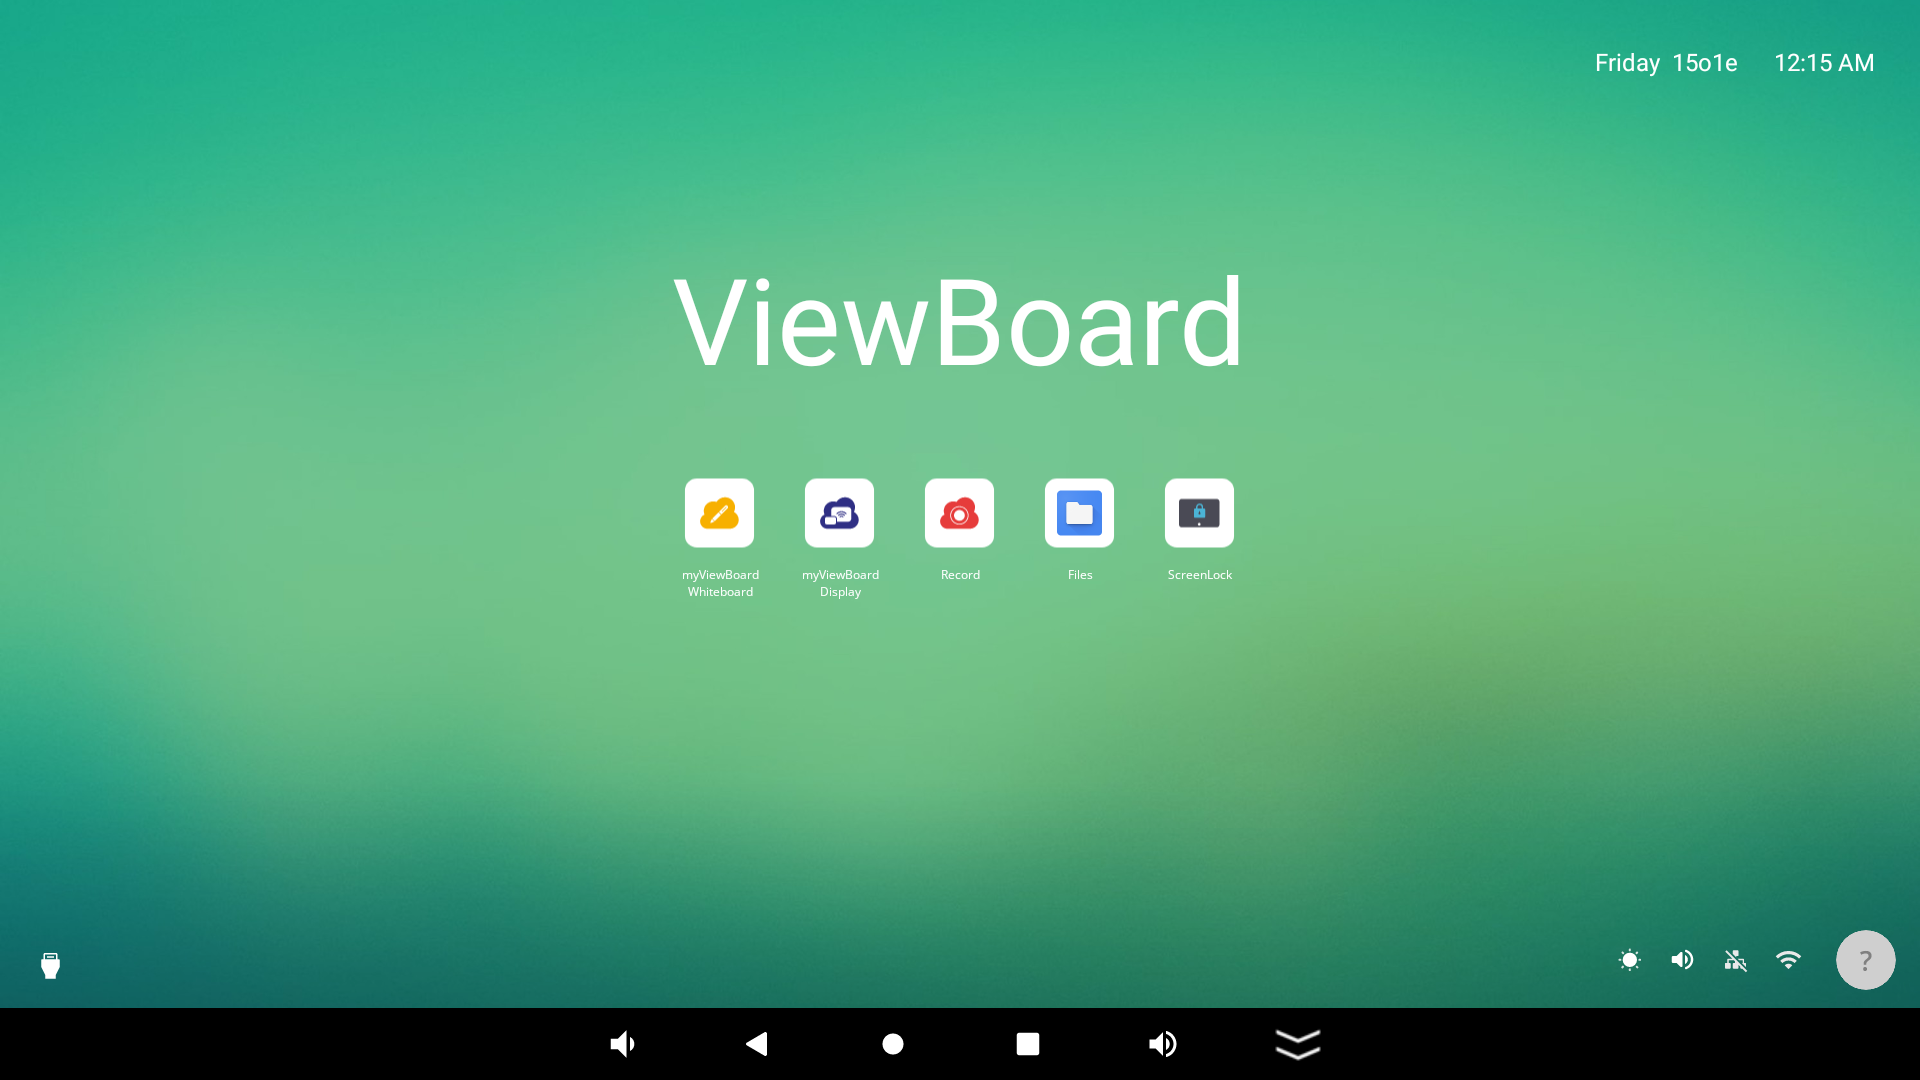
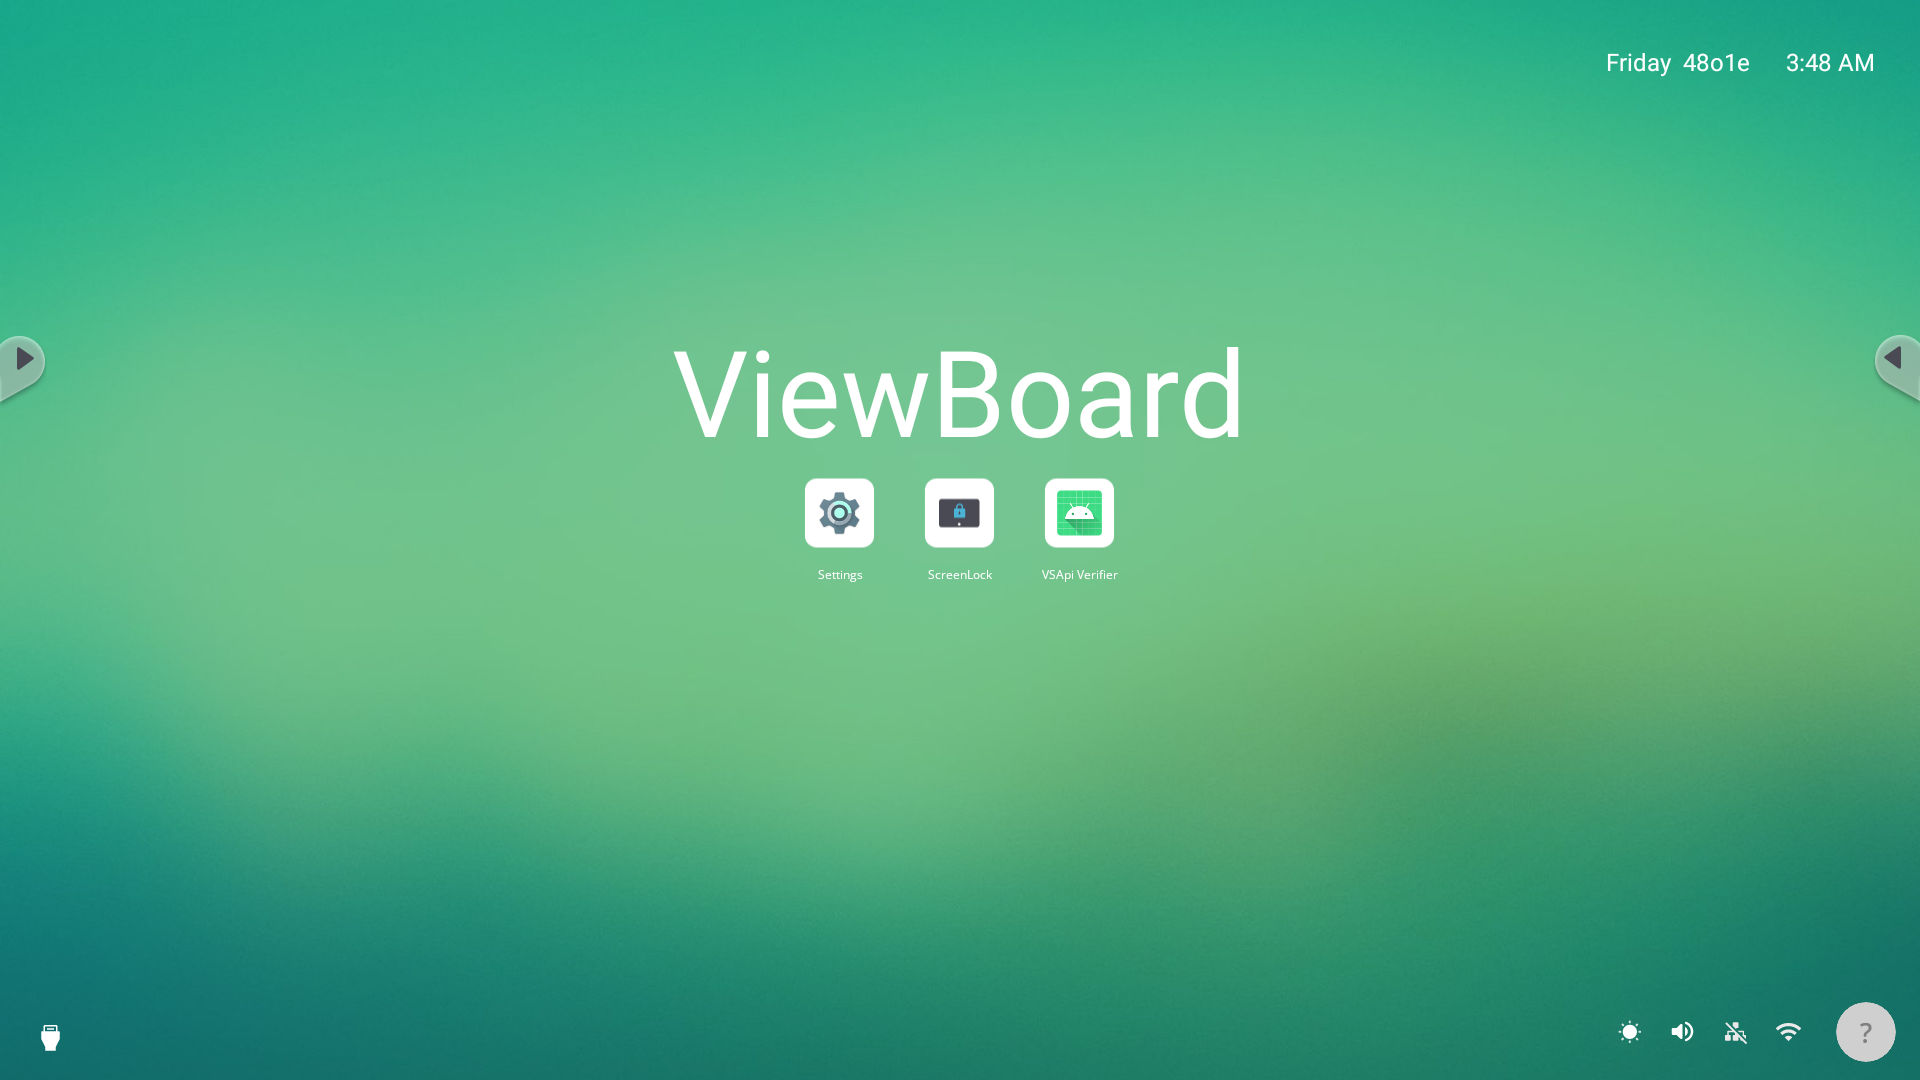
wallpaper logic change

diff --git a/event_generator.py b/event_generator.py
@@ -47,7 +47,9 @@ class EventGen():
                 )
         self.logger.info("Flow finished")
 
-    def gesture_cases(self, event, gesture, driver, json_element, json_gesture, location_x, location_y):
+    def gesture_cases(
+            self, event, gesture, driver, json_element, json_gesture, location_x, location_y
+    ):
         gesture = Gesture(driver)
         match json_gesture:
             case 'open_activity':
@@ -94,7 +96,6 @@ class EventGen():
 
             case 'screenshot':
                 time.sleep(3)
-                now_time = time.strftime("%Y%m%d.%H.%M.%S")
                 filename = event['args'][-1]
                 gesture.screenshot(f'./{filename}.png')
 
@@ -116,15 +117,11 @@ class EventGen():
                     json_element
                 )
 
-            case 'findelement_hotseat':
+            case 'findelements_ByID':
                 elements = driver.find_elements(
-                    AppiumBy.CLASS_NAME,
+                    AppiumBy.ID,
                     json_element
                 )
-                hotseat_list = []
-                for element in elements:
-                    element_text = element.text
-                    hotseat_list.append(element_text)
 
             case 'findelement_ByXpath':
                 element = driver.find_element(
@@ -132,11 +129,21 @@ class EventGen():
                     json_element
                 )
 
-            case 'isElement_onHotseat':
-                element = driver.find_element(
-                    AppiumBy.ACCESSIBILITY_ID,
+            case 'change_wallpaper_first':
+                elements = driver.find_elements(
+                    AppiumBy.ID,
                     json_element
                 )
+                first_element = elements[1]
+                gesture.tap(first_element)
+
+            case 'change_wallpaper_second':
+                elements = driver.find_elements(
+                    AppiumBy.ID,
+                    json_element
+                )
+                first_element = elements[2]
+                gesture.tap(first_element)
 
             case 'isCurrentApp_excepted':
                 current_app_package = driver.current_package

diff --git a/logger.py b/logger.py
@@ -1,3 +1,6 @@
+"""
+log and csv output setting
+"""
 import logging
 import csv
 from datetime import datetime
@@ -8,7 +11,6 @@ FORMAT = '%(asctime)s %(levelname)-2s %(message)s'
 
 
 class Logger:
-
     def __init__(self, log_file=f'log-{datetime.now()}.csv') -> None:
         self.logger = logging
         self.logger.basicConfig(
@@ -27,7 +29,7 @@ class Logger:
 
     def warning(self, msg: str) -> None:
         self.logger.warning(msg)
-        self._write_to_csv('WARNING', msg)
+        self._write_to_csv('WARNING', msg, 'Warning')
 
     def error(self, msg: str) -> None:
         self.logger.error(msg)
@@ -35,10 +37,10 @@ class Logger:
 
     def critical(self, msg: str) -> None:
         self.logger.critical(msg)
-        self._write_to_csv('CRITICAL', msg)
+        self._write_to_csv('CRITICAL', msg, 'Critical')
 
     def _write_to_csv(self, level: str, msg: str, status: str) -> None:
-        with open(self.log_file, 'a', newline='') as csvfile:
+        with open(self.log_file, 'a', encoding='utf-8', newline='') as csvfile:
             csv_writer = csv.writer(csvfile)
             csv_writer.writerow([level, msg, status])
 

diff --git a/Test.py b/Test.py
@@ -1,0 +1,25 @@
+'''This is a demo test for gesture automation.'''
+from appium import webdriver
+import config
+from event_generator import EventGen
+from appium.webdriver.common.appiumby import AppiumBy
+
+# Step 1 : Create Desired Capabilities
+desired_caps = {}
+desired_caps['platformName'] = config.platformName
+desired_caps['platformVersion'] = config.platformVersion
+desired_caps['deviceName'] = config.deviceName
+
+# Step 2 : Create Driver object
+driver = webdriver.Remote(
+    f'http://{config.host}:{config.port}/wd/hub', desired_caps)
+
+elements = driver.find_elements(
+    AppiumBy.ID, "com.viewsonic.wallpaperpicker:id/wallpaper_image")
+
+# 輸出找到的元素數量
+print(f"找到了 {len(elements)} 個元素：")
+
+# 列印每個找到的元素的文本
+for element in elements:
+    print('123', element.text)

diff --git a/demo.py b/demo.py
@@ -18,6 +18,12 @@ event_gen = EventGen()
 # ScreenLock
 
 
+def TestJson(driver):
+    event_gen.generate_event(
+        json_path='./Test_Jason/Test/Test.json', driver=driver
+    )
+
+
 def screen_lock_ALL(driver):
     event_gen.generate_event(
         json_path='./Test_Jason/ScreenLock/screenLock_all.json', driver=driver
@@ -64,7 +70,10 @@ def wallpaper_Byupdate(driver):
 
 # first choice
 first_choice = input("Please select action\n 1: ScreenLock\n 2: Wallpaper:\n")
-if first_choice == '1':
+if first_choice == '0':
+    TestJson(driver)
+
+elif first_choice == '1':
     # second choice
     second_choice = input(
         "Please select action\n 1 : Set Password\n 2 : Change Password\n 3 : Remove Password\n ALL\n").split(',')

diff --git a/gesture.py b/gesture.py
@@ -128,11 +128,9 @@ class Gesture:
             self.logger.error("No overview activities found.")
 
     def compare_images_pixel(self, compare_1, compare_2) -> None:
-        image_path1 = compare_1
-        image_path2 = compare_2
         # 读取两张图片
-        img1 = cv2.imread(image_path1)
-        img2 = cv2.imread(image_path2)
+        img1 = cv2.imread(compare_1)
+        img2 = cv2.imread(compare_2)
         x, y, x_offset, y_offset = 50, 50, 100, 100
 
         # 提取左上角区域
